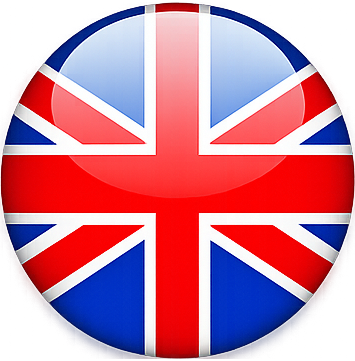
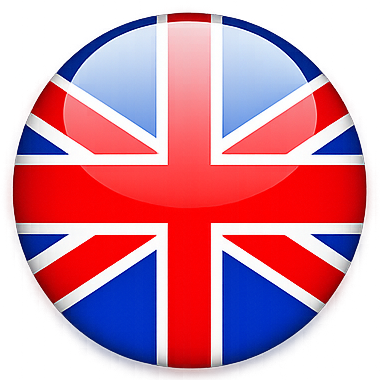
Update site graphics

diff --git a/site/style.css b/site/style.css
@@ -123,8 +123,9 @@ li {
 
 .lang-switch img {
   width: 32px;
-  height: 21px;
-  border-radius: 4px;
+  height: 32px;
+  object-fit: cover; /* recadre le contenu si besoin */
+  border-radius: 8px;
   transition: box-shadow 0.3s ease, transform 0.2s ease;
   cursor: pointer;
 }

diff --git a/site/bug-reports.php b/site/bug-reports.php
@@ -45,28 +45,18 @@ if ($_SERVER['REQUEST_METHOD'] === 'POST') {
     }
 }
 ?>
-
-<!DOCTYPE html>
-<html lang="<?= $lang ?>">
-<head>
-  <meta charset="UTF-8">
-  <meta name="viewport" content="width=device-width, initial-scale=1">
-  <title><?= t('Rapport de bug','Bug report') ?></title>
-  <link rel="stylesheet" href="style.css">
-  <link rel="icon" href="icon.png" type="image/png">
-</head>
-<body>
-  <div class="lang-switch">
-    <a href="?lang=fr">🇫🇷</a>
-    <a href="?lang=en">🇬🇧</a>
-  </div>
+<?php
+$title = t('Soumettre un rapport de bug','Submit a bug report');
+$base = '';
+include 'header.php';
+?>
 <?php if (!empty($success)): ?>
   <div class="msg success">✅ <?= t('Rapport sauvegardé avec succès !','Report saved successfully!') ?></div>
 <?php elseif (!empty($error)): ?>
   <div class="msg error">❌ <?= htmlspecialchars($error) ?></div>
 <?php endif; ?>
 <div class="container">
-  <h2><?= t('Soumettre un rapport de bug','Submit a bug report') ?></h2>
+  <h2><?= $title ?></h2>
   <form method="post" enctype="multipart/form-data">
     <label><?= t('Contact :','Contact:') ?></label>
     <input type="text" name="contact" required>

diff --git a/site/contact.php b/site/contact.php
@@ -31,27 +31,19 @@ if ($_SERVER['REQUEST_METHOD'] === 'POST') {
     }
 }
 ?>
-<!DOCTYPE html>
-<html lang="<?= $lang ?>">
-<head>
-  <meta charset="UTF-8">
-  <meta name="viewport" content="width=device-width, initial-scale=1">
-  <title><?= t('Nous contacter','Contact us') ?></title>
-  <link rel="stylesheet" href="style.css">
-  <link rel="icon" href="icon.png" type="image/png">
-</head>
-<body>
-  <div class="lang-switch">
-    <a href="?lang=fr">🇫🇷</a>
-    <a href="?lang=en">🇬🇧</a>
-  </div>
+<?php include 'lang.php'; ?>
+<?php
+$title = t('Formulaire de contact','Contact form');
+$base = '';
+include 'header.php';
+?>
 <?php if (!empty($success)): ?>
   <div class="msg success">✅ <?= t('Message envoyé avec succès !','Message sent successfully!') ?></div>
 <?php elseif (!empty($error)): ?>
   <div class="msg error">❌ <?= htmlspecialchars($error) ?></div>
 <?php endif; ?>
 <div class="container">
-  <h2><?= t('Formulaire de contact','Contact form') ?></h2>
+  <h2><?= $title ?></h2>
   <form method="post">
     <label><?= t('Adresse email :','Email address:') ?></label>
     <input type="email" name="email" required>

diff --git a/site/desktop/index.php b/site/desktop/index.php
@@ -8,11 +8,11 @@ usort($files, function($a, $b) {
 });
 ?>
 <?php
-$title = t('Version Android','Android version');
+$title = t('Version Desktop','Desktop version');
 $base = '../';
 include '../header.php';
 ?>
-  <h1><?= t('Version Desktop','Desktop version') ?></h1>
+  <h1><?= $title ?></h1>
   <div class="intro">
     <p><?= t("Dézippez l'archive téléchargée puis ouvrez le dossier extrait. Double-cliquez sur l'application <strong>Game</strong> pour lancer le jeu. Les sauvegardes se trouvent dans le dossier <strong>save</strong> et peuvent être copiées pour être réutilisées dans une nouvelle version.",
             "Unzip the downloaded archive and open the extracted folder. Double-click the <strong>Game</strong> application to start. Saves are in the <strong>save</strong> folder and can be copied to use in a new version.") ?></p>

diff --git a/site/feedback.php b/site/feedback.php
@@ -47,7 +47,7 @@ if ($_SERVER['REQUEST_METHOD'] === 'POST') {
 ?>
 
 <?php
-$title = t('Feedback sur le jeu','Game feedback');
+$title = t('Envoyer un feedback sur le jeu','Send feedback about the game');
 $base = '';
 include 'header.php';
 ?>
@@ -57,7 +57,7 @@ include 'header.php';
   <div class="msg error">❌ <?= htmlspecialchars($error) ?></div>
 <?php endif; ?>
 <div class="container">
-  <h2><?= t('Envoyer un feedback sur le jeu','Send feedback about the game') ?></h2>
+  <h2><?= $title ?></h2>
   <form method="post" enctype="multipart/form-data">
     <label><?= t('Contact :','Contact:') ?></label>
     <input type="text" name="contact" required>

diff --git a/site/android/index.php b/site/android/index.php
@@ -7,7 +7,7 @@ $title = t('Version Android','Android version');
 $base = '../';
 include '../header.php';
 ?>
-  <h1><?= t('Version Android','Android version') ?></h1>
+  <h1><?= $title ?></h1>
   <div class="intro">
     <p><?= t("Téléchargez l'APK ci-dessous, puis transférez-le sur votre appareil Android. Ouvrez-le pour installer le jeu. Vous devrez peut-être autoriser l'installation de sources inconnues dans les paramètres de sécurité de votre téléphone.",
             'Download the APK below and transfer it to your Android device. Open it to install the game. You may need to allow unknown sources in your phone settings.') ?></p>

diff --git a/site/release-note.php b/site/release-note.php
@@ -5,7 +5,7 @@ $title = t('Notes de version','Release notes');
 $base = '';
 include 'header.php';
 ?>
-  <h1><?= t('Notes de version','Release notes') ?></h1>
+  <h1><?= $title ?></h1>
   <div class="container">
     <section class="release">
       <h2>Version 0.4.0 : <?= t("Corrections diverses et améliorations", "Misc fixes and improvements") ?></h2>

diff --git a/site/index.php b/site/index.php
@@ -1,6 +1,6 @@
 <?php include 'lang.php'; ?>
 <?php
-$title = t('Feedback sur le jeu','Game feedback');
+$title = t('Hunter x Hunter Evolution','Hunter x Hunter Evolution');
 $base = '';
 include 'header.php';
 ?>
